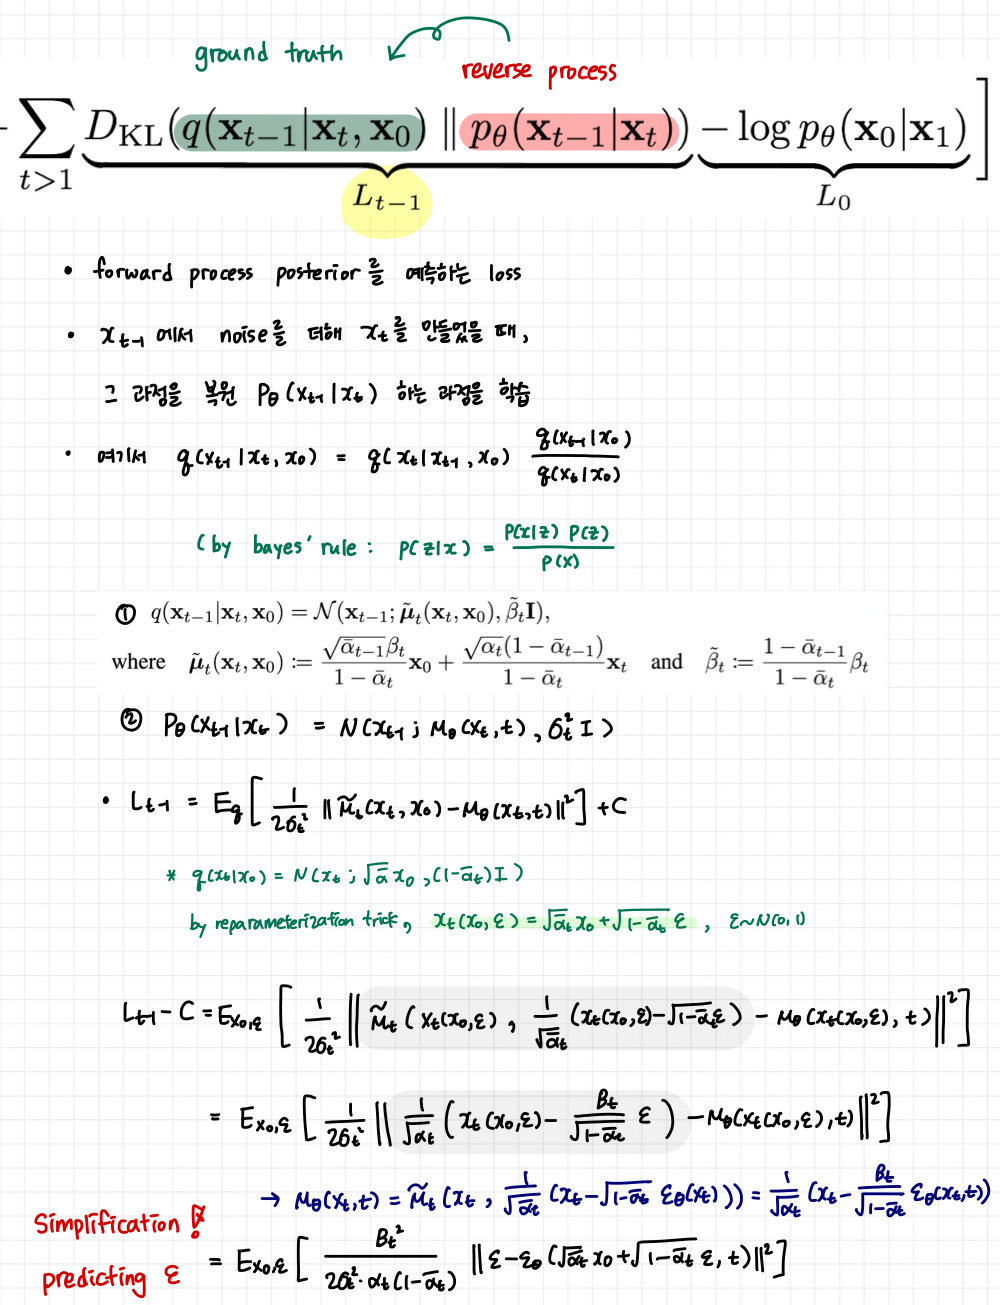
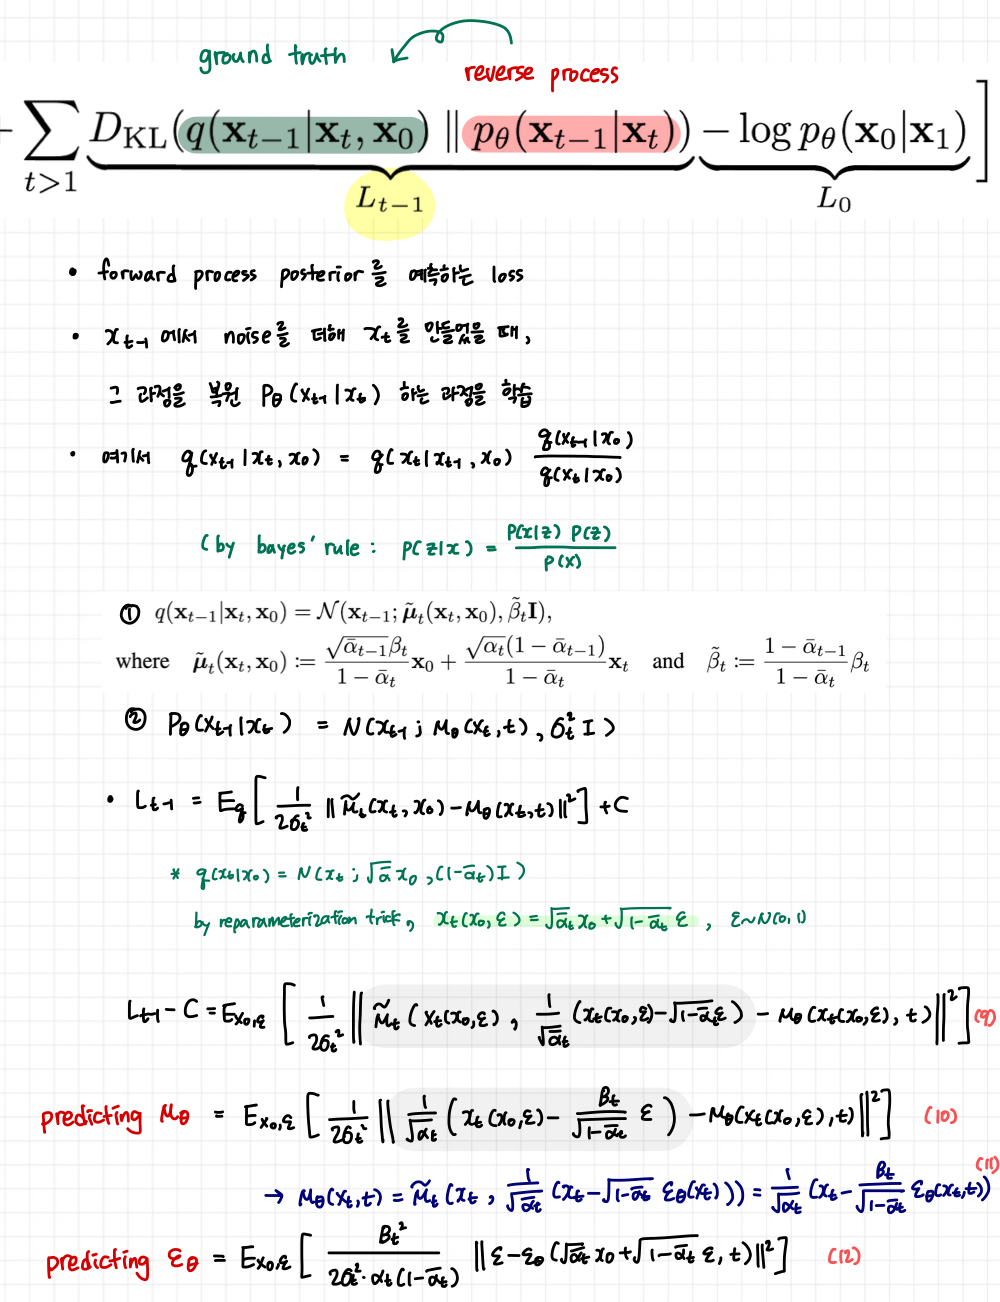
add ddpm posts

diff --git a/_posts/diffusion/2022-06-14-diffusion-1.md b/_posts/diffusion/2022-06-14-diffusion-1.md
@@ -1,0 +1,164 @@
+---
+title: "[Paper Review] DDPM: Denoising Diffusion Probabilistic Models 논문 리뷰" 
+excerpt: ""
+
+categories:
+ - VAE
+tags:
+  - deeplearning
+  - ai
+  - pytorch
+  - vision
+search: true
+
+# 목차
+toc: true  
+toc_sticky: true 
+
+use_math: true
+---
+
+- Paper: Denoising Diffusion Probabilistic Models (Arxiv 2020): [arxiv](https://arxiv.org/abs/2006.11239), [code](https://github.com/hojonathanho/diffusion), [project page](https://hojonathanho.github.io/diffusion/)
+
+
+> **Diffusion Probabilistic Models**
+> 
+> - data에 matching되는 sample을 생성하도록 variational inference로 parameterized Markov chain를 학습
+> - **forward process (diffusion process)**: data에 noise를 추가하는 과정으로, markov chain을 통해 점진적으로 noise를 더해나간다.
+> - **reverse process**: gaussian noise에서 시작하여 점진적으로 noise를 제거해가는 과정
+
+
+## 1. DPM
+
+- Paper: Deep Unsupervised Learning using Nonequilibrium Thermodynamics (2015): [arxiv](https://arxiv.org/abs/1503.03585)
+
+딥러닝에서 현실의 복잡한 dataset을 확률분포 `probability distribution`로 표현하는 것은 매우 중요하다. 특히 우리가 이 확률분포를 구하고자 할 때에는 **tractability**와 **flexibility**라는 개념이 중요한데, 이는 서로 trade-off 관계에 있기 때문에 이 둘을 동시에 만족하긴 어렵다. (복잡한 data에 대해서도 잘 fitting이 되어 있으면서도 계산이 용이한 분포를 찾긴 어려움)
+
+- **tractability**: Gaussian이나 Laplace distribution 처럼 data에 쉽게 fitting되어 분석이 쉬우며 계산이 용이한 분포
+- **flexibility**: 임의의 복잡한 data에 대해서도 적용이 가능한 분포
+
+> `Diffusion Probability Model`
+> 1. extreme flexibility in model structure
+> 2. exact sampling
+> 3. easy multiplication with other distributions, e.g. in order to compute a posterior, and
+> 4. the model log likelihood, and the probability of individual states, to be cheaply evaluate
+
+
+초창기 `Diffusion Probability Model(2015)`에서는 diffusion 과정을 통해 우리가 잘 알고있는 distribution (ex. Gaussian)을 target data distribution으로 변환해주는 markov chain을 학습시켜 flexible하면서도 tractable한 distribution을 구하고자 하였다.
+
+## 2. Diffusion Model
+
+<p align='center'><img src='https://github.com/happy-jihye/happy-jihye.github.io/blob/master/_posts/images/diffusion/ddpm/Untitled.png?raw=1' width = '600' ></p>
+
+출처: [https://lilianweng.github.io/posts/2021-07-11-diffusion-models/](https://lilianweng.github.io/posts/2021-07-11-diffusion-models/)
+
+`VAE`는 image를 encoding하는 network와 latent code를 바탕으로 image를 decoding하는 network 모두를 학습하는 반면, `Diffusion model`은 이미지를 encoding하는 *forward process*는 fix된 채 image를 decoding하는 *reverse process - **single network*** 만을 학습한다.
+
+### 2.1 **Forward Process (diffusion process)**
+
+<p align='center'><img src='https://github.com/happy-jihye/happy-jihye.github.io/blob/master/_posts/images/diffusion/ddpm/Untitled%201.png?raw=1' width = '600' ></p>
+
+$$
+q\left(\mathbf{x}_{1: T} \mid \mathbf{x}_{0}\right):=\prod_{t=1}^{T} q\left(\mathbf{x}_{t} \mid \mathbf{x}_{t-1}\right), \quad q\left(\mathbf{x}_{t} \mid \mathbf{x}_{t-1}\right):=\mathcal{N}\left(\mathbf{x}_{t} ; \sqrt{1-\beta_{t}} \mathbf{x}_{t-1}, \beta_{t} \mathbf{I}\right)
+$$
+
+- markov chain으로 data에 점진적으로 noise를 추가 (sampling의 반대방향)
+- data에 noise를 추가할 때, variance schedule $\beta_{1}, \ldots, \beta_{T}$ 를 이용하여 scaling을 한 후 더해준다.
+    - 매 step마다 gaussian distribution에서 reparameterize를 통해 sample하게 되는 형태로 noise는 추가되는데, 이때 단순히 noise만을 더해주는게 아니라 $\sqrt{1-\beta_{t}}$ 로 scaling하는 이유는 variance가 발산하는 것을 막기 위함이다. (각 step의 평균값이 0에 가깝도록)
+    - variance를 unit하게 가둠으로써 forward-reverse 과정에서 variance가 일정수준으로 유지될 수 있게 된다
+    
+    $$
+    x_{t}=\sqrt{1-\beta_{t}} x_{t-1}+\beta_{t} * \epsilon
+    $$
+    
+    - 이 값은 learnable parameter로 둘 수도 있지만, 실험을 해보니 상수로 두어도 큰 차이가 없어서 constant로 두었다고 한다.
+    - 데이터가 이미지와 비슷할 때에는 이 값을 매우 작게 설정하다가 gaussian distribution에 점점 가까워질 수록 이 값을 크게 설정 (10^-4에서 0.02로 linear하게 증가)
+- t번의 sampling을 통해 매 step을 차근차근 밟아가면서 $x_0$ 에서 $x_t$ 를 만들 수도 있지만, 한번에 이를 할수도 있다.
+    - 재귀적으로 식을 정리하다보면, 다음과 같은 식이 성립
+    
+    $$
+    \alpha_{t}:=1-\beta_{t} \text { and } \bar{\alpha}_{t}:=\prod_{s=1}^{t} \alpha_{s}
+    $$
+    
+    $$
+    q\left(\mathbf{x}_{t} \mid \mathbf{x}_{0}\right)=\mathcal{N}\left(\mathbf{x}_{t} ; \sqrt{\bar{\alpha}_{t}} \mathbf{x}_{0},\left(1-\bar{\alpha}_{t}\right) \mathbf{I}\right)
+    $$
+    
+    - 한 step씩 학습을 하면 메모리와 resource가 너무 많이 든다. 그러나 이런식으로 한번에 $x_t$ 를 만들고 나면, 여기서 loss를 구한 다음에 t에 대한 expectation을 구하는 식으로 학습이 가능하다 (어차피 stochastic gradient를 사용하기 때문에 이런식으로 학습해도 무방)
+
+### 2.2 **Reverse Process**
+
+$$
+p_{\theta}\left(\mathbf{x}_{0: T}\right):=p\left(\mathbf{x}_{T}\right) \prod_{t=1}^{T} p_{\theta}\left(\mathbf{x}_{t-1} \mid \mathbf{x}_{t}\right), \quad p_{\theta}\left(\mathbf{x}_{t-1} \mid \mathbf{x}_{t}\right):=\mathcal{N}\left(\mathbf{x}_{t-1} ; \boldsymbol{\mu}_{\theta}\left(\mathbf{x}_{t}, t\right), \mathbf{\Sigma}_{\theta}\left(\mathbf{x}_{t}, t\right)\right)
+$$
+
+- 우리가 학습하고자 하는 `reverse diffusion` 과정
+    - Hierarachical VAE에서의 decoding과정과 비슷
+- Gaussian noise $x_T$ 에서 denoising 하면서 이미지 $x_0$ 를 만드는 과정
+
+### 2.3 정리
+
+<p align='center'><img src='https://github.com/happy-jihye/happy-jihye.github.io/blob/master/_posts/images/diffusion/ddpm/Untitled.jpeg?raw=1' width = '600' ></p>
+
+## 3. Diffusion models and denoising autoencoders
+
+### 3.1 **Objective Function**
+
+<p align='center'><img src='https://github.com/happy-jihye/happy-jihye.github.io/blob/master/_posts/images/diffusion/ddpm/Untitled%201.jpeg?raw=1' width = '600' ></p>
+
+여기서 가장 중요한 term은 $L_{t-1}$ 이다. 우리는 $x_0$ 부터 시작하여 conditional하게 식을 전개하다보면, tractable한 forward process posterior $q\left(\mathbf{x}_{t-1} \mid \mathbf{x}_{t}, x_0\right)$ 의 정규분포를 알 수 있는데, 이를 바탕으로 KL divergence를 계산하면 우리가 결과적으로 학습하고자하는 $p_\theta\left(\mathbf{x}_{t-1} \mid \mathbf{x}_{t}\right)$를 학습시킬 수 있다.
+
+### 3.2 Forward process and $L_T$
+
+<p align='center'><img src='https://github.com/happy-jihye/happy-jihye.github.io/blob/master/_posts/images/diffusion/ddpm/Untitled%202.png?raw=1' width = '600' ></p>
+
+- 위 objective function의 첫번째 term
+- DDPM에서의 forward process는 $x_T$ 가 항상 gaussian distribution을 따르도록 하기 때문에 사실 상 tractable한 distribution, $q\left(\mathbf{x}_{T} \mid \mathbf{x}_{0}\right)$ 는 prior $p(x_T)$ 와 거의 유사하다. 또한, DDPM에서는 forward process variance $\beta_t$ 를 constant로 고정시킨 후 approximate posterior를 정의하기 때문에 이 posterior $q$ 에는 learnable parameter가 없다.
+- 따라서 이 loss term은 항상 0에 가까운 상수이며, 학습과정에서 무시된다.
+
+### 3.3 Reverse process and $L_{1:T-1}$
+
+<p align='center'><img src='https://github.com/happy-jihye/happy-jihye.github.io/blob/master/_posts/images/diffusion/ddpm/Untitled%203.png?raw=1' width = '600' ></p>
+
+- 위 objective function의 두번째 term
+- 이 loss term에서는
+    
+    (1) $\tilde{\boldsymbol{\mu}}_{t}$ 을 예측하도록 `the reverse process mean function approximator`, $\boldsymbol{\mu}_{\theta}$ 를 훈련시켜도 되고 
+    
+    (2) $\epsilon$ 을 예측하도록 학습해도 되는데, 저자들은 $\epsilon$ 을 예측하도록 loss term을 simplification하는게 성능이 좋다고 말하고 있음 (`ablation study, Table 2`) 
+    
+    + fixed variances를 사용하는게 더 성능이 좋음
+    
+
+<p align='center'><img src='https://github.com/happy-jihye/happy-jihye.github.io/blob/master/_posts/images/diffusion/ddpm/Untitled%204.png?raw=1' width = '600' ></p>
+
+### 3.4 Data scaling, reverse process decoder, and $L_0$
+
+$$
+\begin{aligned}p_{\theta}\left(\mathbf{x}_{0} \mid \mathbf{x}_{1}\right) &=\prod_{i=1}^{D} \int_{\delta_{-}\left(x_{0}^{i}\right)}^{\delta_{+}\left(x_{0}^{i}\right)} \mathcal{N}\left(x ; \mu_{\theta}^{i}\left(\mathbf{x}_{1}, 1\right), \sigma_{1}^{2}\right) d x \\\delta_{+}(x) &=\left\{\begin{array}{ll}\infty & \text { if } x=1 \\x+\frac{1}{255} & \text { if } x<1\end{array} \quad \delta_{-}(x)= \begin{cases}-\infty & \text { if } x=-1 \\x-\frac{1}{255} & \text { if } x>-1\end{cases} \right.\end{aligned}
+$$
+
+### 3.5 Simplified training objective
+
+위 objective function에서 중요한 term은 variational bound에 해당하는 $L_{t-1}$과 $L_{0}$ 이다. 저자들은 해당 loss term 을 아래와 같이 simplification 했다고 한다.
+
+$$
+L_{\text {simple }}(\theta):=\mathbb{E}_{t, \mathbf{x}_{0}, \boldsymbol{\epsilon}}\left[\left\|\boldsymbol{\epsilon}-\boldsymbol{\epsilon}_{\theta}\left(\sqrt{\bar{\alpha}_{t}} \mathbf{x}_{0}+\sqrt{1-\bar{\alpha}_{t}} \boldsymbol{\epsilon}, t\right)\right\|^{2}\right]
+$$
+
+- t is uniform between 1 and T
+- 위와 같은 simplified objective을 통해 diffusion process를 학습하면 매우 작은 t 에서뿐만 아니라 큰 t에 대해서도 network 학습이 가능하기 때문에 매우 효과적
+
+## 4. Experiments
+
+<p align='center'><img src='https://github.com/happy-jihye/happy-jihye.github.io/blob/master/_posts/images/diffusion/ddpm/Untitled%205.png?raw=1' width = '600' ></p>
+
+### 4.1 Sample quality
+
+<p align='center'><img src='https://github.com/happy-jihye/happy-jihye.github.io/blob/master/_posts/images/diffusion/ddpm/Untitled%206.png?raw=1' width = '600' ></p>
+
+---
+
+## Reference
+
+[What are Diffusion Models?](https://lilianweng.github.io/posts/2021-07-11-diffusion-models/)
